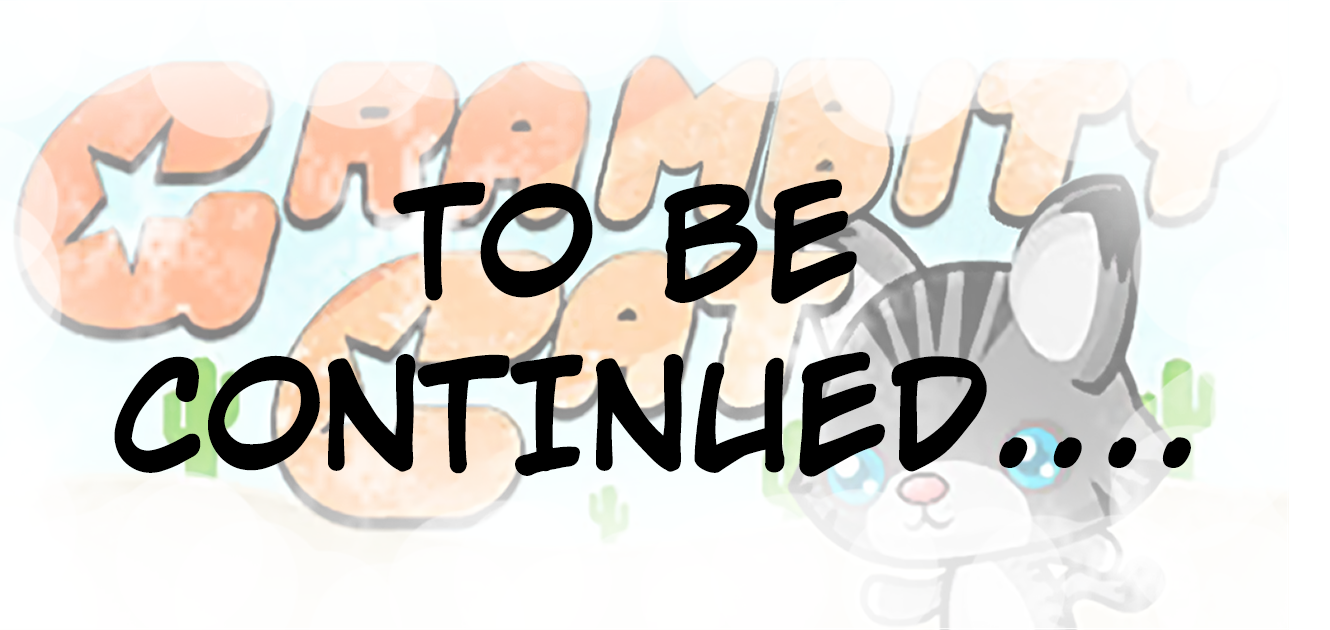
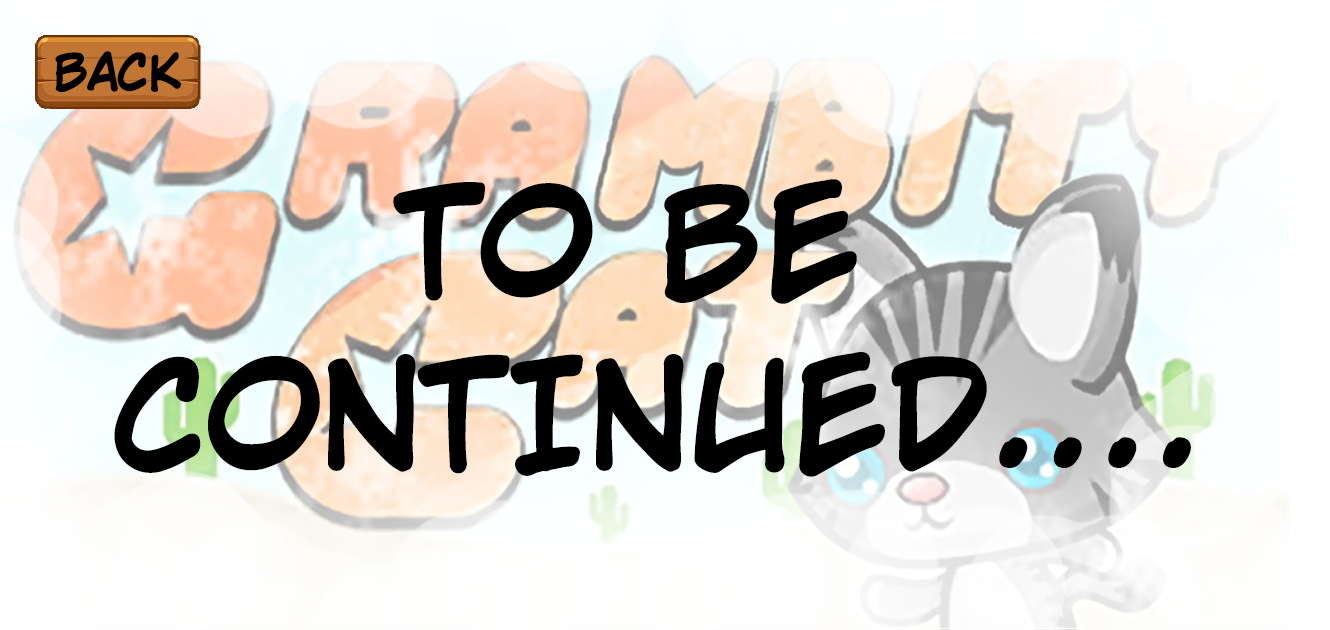
LOL JENNY IS DONE

Changed region(s): [[0.0, 0.0302, 0.1541, 0.181]]

diff --git a/GrambityCat.java b/GrambityCat.java
@@ -1,6 +1,5 @@
 //GrambityCat.java
 //Jenny Chen
-package com.company;
 
 import sun.audio.*;
 import java.io.*;
@@ -19,6 +18,7 @@ public class GrambityCat extends JFrame implements ActionListener{
     private JButton inBtn  = new JButton("Instructions");
     private JButton iBackBtn = new JButton("Back"); //back button for the instruction page
     private JButton sBackBtn = new JButton("Back"); //back button for the selection page
+    private JButton eBackBtn = new JButton("Back"); //back button for the end page
 
     //the 3 buttons to choose the levels
     private JButton lv1 = new JButton("1");
@@ -45,6 +45,7 @@ public class GrambityCat extends JFrame implements ActionListener{
         inBtn.addActionListener(this);
         iBackBtn.addActionListener(this);
         sBackBtn.addActionListener(this);
+        eBackBtn.addActionListener(this);
         lv1.addActionListener(this);
         lv2.addActionListener(this);
         lv3.addActionListener(this);
@@ -79,7 +80,15 @@ public class GrambityCat extends JFrame implements ActionListener{
         selectLabel.setLocation(-10,-15);
         selPage.add(selectLabel,1);
 
-        //TODO: make buttons invisible after new buttons are put in
+        //end card
+        ImageIcon endBack = new ImageIcon(getClass().getResource("EndScreen.png"));
+        JLabel endLabel = new JLabel((endBack));
+        JLayeredPane endPage = new JLayeredPane();
+        endPage.setLayout(null);
+        endLabel.setSize(1330,630);
+        endLabel.setLocation(-10,-15);
+        endPage.add(endLabel,1);
+
         //play button
         playBtn.setSize(160,66);
         playBtn.setLocation(619,457);
@@ -103,6 +112,11 @@ public class GrambityCat extends JFrame implements ActionListener{
         hideButton(sBackBtn); //makes button invisible
         selPage.add(sBackBtn,JLayeredPane.DRAG_LAYER);
 
+        eBackBtn.setSize(155,63);
+        eBackBtn.setLocation(15,20);
+        hideButton(eBackBtn); //makes button invisible
+        endPage.add(eBackBtn,JLayeredPane.DRAG_LAYER);
+
         //selection buttons
         lv1.setSize(70,80);
         lv1.setLocation(185,260);
@@ -125,6 +139,7 @@ public class GrambityCat extends JFrame implements ActionListener{
         cards.add(selPage,"selection");
         cards.add(game, "game");
         cards.add(iPage,"instructions");
+        cards.add(endPage, "end");
         add(cards);
 
         music();
@@ -161,13 +176,12 @@ public class GrambityCat extends JFrame implements ActionListener{
             cLayout.show(cards,"instructions");
             game.requestFocus();
         }
-        if(source == sBackBtn || source == iBackBtn){
+        if(source == sBackBtn || source == iBackBtn || source ==eBackBtn){
             cLayout.show(cards,"menu");
             game.requestFocus();
         }
         //this is where we can choose different levels
         if(source==lv1){
-            System.out.println("set level");
             game.setlevel(1);
             cLayout.show(cards,"game");
             myTimer.start();
@@ -212,9 +226,11 @@ public class GrambityCat extends JFrame implements ActionListener{
             game.checkPowerUp();    //check colliding of the powerups
             game.checkReset();  //check if player died and game needs to be reset
             if(game.CheckDoor()){
-                if(game.getlevel()<=3){
-                    System.out.println("hi");
+                if(game.getlevel()<3){
                     game.setlevel(game.getlevel()+1);
+                }
+                else{
+                    cLayout.show(cards,"end");
                 }
             }
             game.repaint(); //draw everything
@@ -368,11 +384,15 @@ class GamePanel extends JPanel implements KeyListener{
         requestFocus();
         mainFrame.start();
     }
+
     public int getlevel(){
         return levels;
     }
+
     public void setlevel(int lvl){
         levels = lvl;
+        player.setDead(true);
+        checkReset();
         MakeMap(saws, platforms,BPlatforms,lasers,PUps,LevelChoice(levels),doors);
     }
     public String LevelChoice(int lvl){
@@ -383,16 +403,12 @@ class GamePanel extends JPanel implements KeyListener{
             return "Map2.txt";
         }
         else{
-            System.out.println("hiiiii");
-            System.out.println(lvl);
             return "Map3.txt";
         }
     }
     public boolean CheckDoor(){
-        System.out.println(saws.size());
         if(doors.size()>0){
             if (doors.get(0).nextLevel()) {
-                System.out.println("refresh");
                 saws.removeAll(saws);
                 platforms.removeAll(platforms);
                 BPlatforms.removeAll(BPlatforms);
@@ -444,7 +460,6 @@ class GamePanel extends JPanel implements KeyListener{
                     if (stuff[2].contains("GTile"))
                         platforms.add(new Platform(Integer.parseInt(stuff[0])*35,Integer.parseInt(stuff[1])*35,35,35,new ImageIcon(getClass().getResource(stuff[2])).getImage(),player));
                     else if (stuff[2].contains("Door")){
-                        System.out.println("hi");
                         doory.add( new Door(Integer.parseInt(stuff[0])*35,Integer.parseInt(stuff[1])*35,DoorImage, player));
                     }
                     else{

diff --git a/Cat.java b/Cat.java
@@ -104,7 +104,6 @@ public class Cat {
         }
         else{
             direction = true;
-            //TODO: change this if changing screen size
             if(canGoRight && px+41<1330){
                 if(px+41+x>1330){
                     px=1289;
@@ -134,7 +133,7 @@ public class Cat {
             if(y>0){
                 py+= y;
             }
-            if(y<0 && canGoUp){ //if the cat is going up, make sure it cacn
+            if(y<0 && canGoUp){ //if the cat is going up, make sure it can
                 py+= y;
             }
             if(py+y<0 || py+y>630) { //if the cat falls out of the screen, it dies
@@ -196,12 +195,12 @@ public class Cat {
     public void updateCollideRects(){
         catRect = new Rect(px,py,40,61);
         if(direction){
-            topRect = new Rect(px+4,py,24,1);
-            bottomRect = new Rect(px+4,py+60,24,1);
+            topRect = new Rect(px+2,py,26,1);
+            bottomRect = new Rect(px+2,py+60,24,1);
         }
         else{
-            topRect = new Rect(px+12,py,24,1);
-            bottomRect = new Rect(px+12,py+60,24,1);
+            topRect = new Rect(px+10,py,26,1);
+            bottomRect = new Rect(px+10,py+60,24,1);
         }
         leftRect = new Rect(px,py,1,61);
         rightRect = new Rect(px+39,py,1,61);
@@ -292,7 +291,7 @@ public class Cat {
             py = plat.getY()+plat.getHeight()+1;
         }
         else{
-            py = plat.getY()-1;
+            py = plat.getY()-61;
         }
     }
 
@@ -308,7 +307,7 @@ public class Cat {
 
         }
         else if(pos.equals("right")){
-            if(platform.getX()+platform.getWidth()+1<1289){
+            if(platform.getX()+platform.getWidth()<1289){
                 px = platform.getX()+platform.getWidth()+1;
             }
             else{
@@ -359,8 +358,6 @@ public class Cat {
                 if(falling){ //if the cat is falling, there is no animation
                     g.drawImage(normCatsR[0], px, py, gamePanel);
                 }
-                //TODO: if screen size changes change this
-                //TODO: fix the stinking walking right thing
                 else if(standing || px == 1289){ //if the cat is standing still, there is no animation
                     g.drawImage(normCatsR[2],px,py,gamePanel);
                 }
@@ -409,18 +406,6 @@ public class Cat {
                 }
 
             }
-        }
-
-        //TODO: delete these after
-        g.setColor(Color.GREEN);
-        g.drawRect((int)topRect.getX(),(int)topRect.getY(),(int)topRect.getWidth(),(int)topRect.getHeight());
-        g.drawRect((int)bottomRect.getX(),(int)bottomRect.getY(),(int)bottomRect.getWidth(),(int)bottomRect.getHeight());
-        g.drawRect((int)leftRect.getX(),(int)leftRect.getY(),(int)leftRect.getWidth(),(int)leftRect.getHeight());
-        g.drawRect((int)rightRect.getX(),(int)rightRect.getY(),(int)rightRect.getWidth(),(int)rightRect.getHeight());
-
-        g.setColor(Color.magenta);
-        for(Point p:catPoints){
-            g.drawRect((int)p.getX(),(int)p.getY(),1,1);
         }
     }
 }

diff --git a/PowerUp.java b/PowerUp.java
@@ -2,12 +2,10 @@
 //object class
 //if player touches the power up, they speed up
 
+import javax.swing.*;
 import java.awt.*;
 
 public class PowerUp {
-
-    //TODO: get an actual picture and delete the current grey square and fix the coordinates and shit
-    private Image powerup; //the image of the PowerUp
 
     private int px,py; //x and y coordinates of the power up
     private Rect spUpRect; //the Rect around the power up
@@ -17,7 +15,6 @@ public class PowerUp {
 
     //constructor, takes the position of the power up (px,py) and the player
     public PowerUp(int px, int py, Cat cat) {
-        //this.powerup = powerup;
         this.px = px;
         this.py = py;
         spUpRect = new Rect(px,py,10,10);
@@ -41,8 +38,7 @@ public class PowerUp {
     public void draw(Graphics g, GamePanel gamePanel){
         //only draws power up if it is still available
         if(available){
-            g.setColor(Color.GRAY);
-            g.fillRect(px,py,10,10);
+            g.drawImage(new ImageIcon(getClass().getResource("star.png")).getImage(),px,py,gamePanel);
         }
     }
 }

diff --git a/BreakingPlat.java b/BreakingPlat.java
@@ -14,7 +14,6 @@ public class BreakingPlat extends Platform{
 
     private boolean broken = false; //if true, the platform is no longer there
 
-    //TODO: get good pictures, change size if needed, delete what is in draw
     private Rect[] collideRects= new Rect[4];   //the list that holds the collide Rects
     private Rect topRect,bottomRect,leftRect,rightRect; //the four rectangles around the platform tat check for collisions
 
@@ -114,10 +113,5 @@ public class BreakingPlat extends Platform{
             g.drawImage(breakingPlats[2],px,py,gamePanel);
         }
         //if there is no counter, no picture is drawn
-        g.setColor(Color.ORANGE);
-        g.drawRect(px,py-collideW,w,collideW);
-        g.drawRect(px,py+h,w,collideW);
-        g.drawRect(px-collideW,py,collideW,h);
-        g.drawRect(px+w,py,collideW,h);
     }
 }

diff --git a/Laser.java b/Laser.java
@@ -10,11 +10,6 @@ public class Laser {
     private int sx,sy; //position of the switch
     private boolean on = true; //true if switch has not been touched, if so, laser is on as well
 
-    //TODO: get actual good pictures, fix collide rects if needed, change all the stuff in draw
-    private Image s;//switch image
-    private Image topLaser;//the things that the laser shoots out of
-    private Image bottomLaser;
-
     private Rect laserRect; //the Rect of the Laser
     private Rect switchRect; //the Rect of the switch that turns the laser off
 

diff --git a/Platform.java b/Platform.java
@@ -97,10 +97,5 @@ public class Platform {
     //draws the platform
     public void draw(Graphics g, GamePanel gamePanel) {
         g.drawImage(platPic,px,py,gamePanel);
-        g.setColor(Color.ORANGE);
-        g.drawRect(px,py-collideW,w,collideW);
-        g.drawRect(px,py+h,w,collideW);
-        g.drawRect(px-collideW,py,collideW,h);
-        g.drawRect(px+w,py,collideW,h);
     }
 }

diff --git a/Saw.java b/Saw.java
@@ -1,4 +1,3 @@
-package com.company;
 //Saw.java
 //Saw object class
 //moves back and forth, if the player touches the saw, they die
@@ -24,7 +23,6 @@ public class Saw {
         oy = y;
         this.minX = minX;
         this.maxX = maxX;
-        //TODO: make actual saw pics
         pics = sawPics;
         //switches direction to right if d is not left
         if(d.equals("left")){

diff --git a/Door.java b/Door.java
@@ -1,11 +1,8 @@
-package com.company;
 //Door.java
 //object that brings the player to the next level
 
 import javax.swing.*;
 import java.awt.*;
-
-import static java.awt.Color.BLUE;
 
 public class Door {
     private int px,py;
